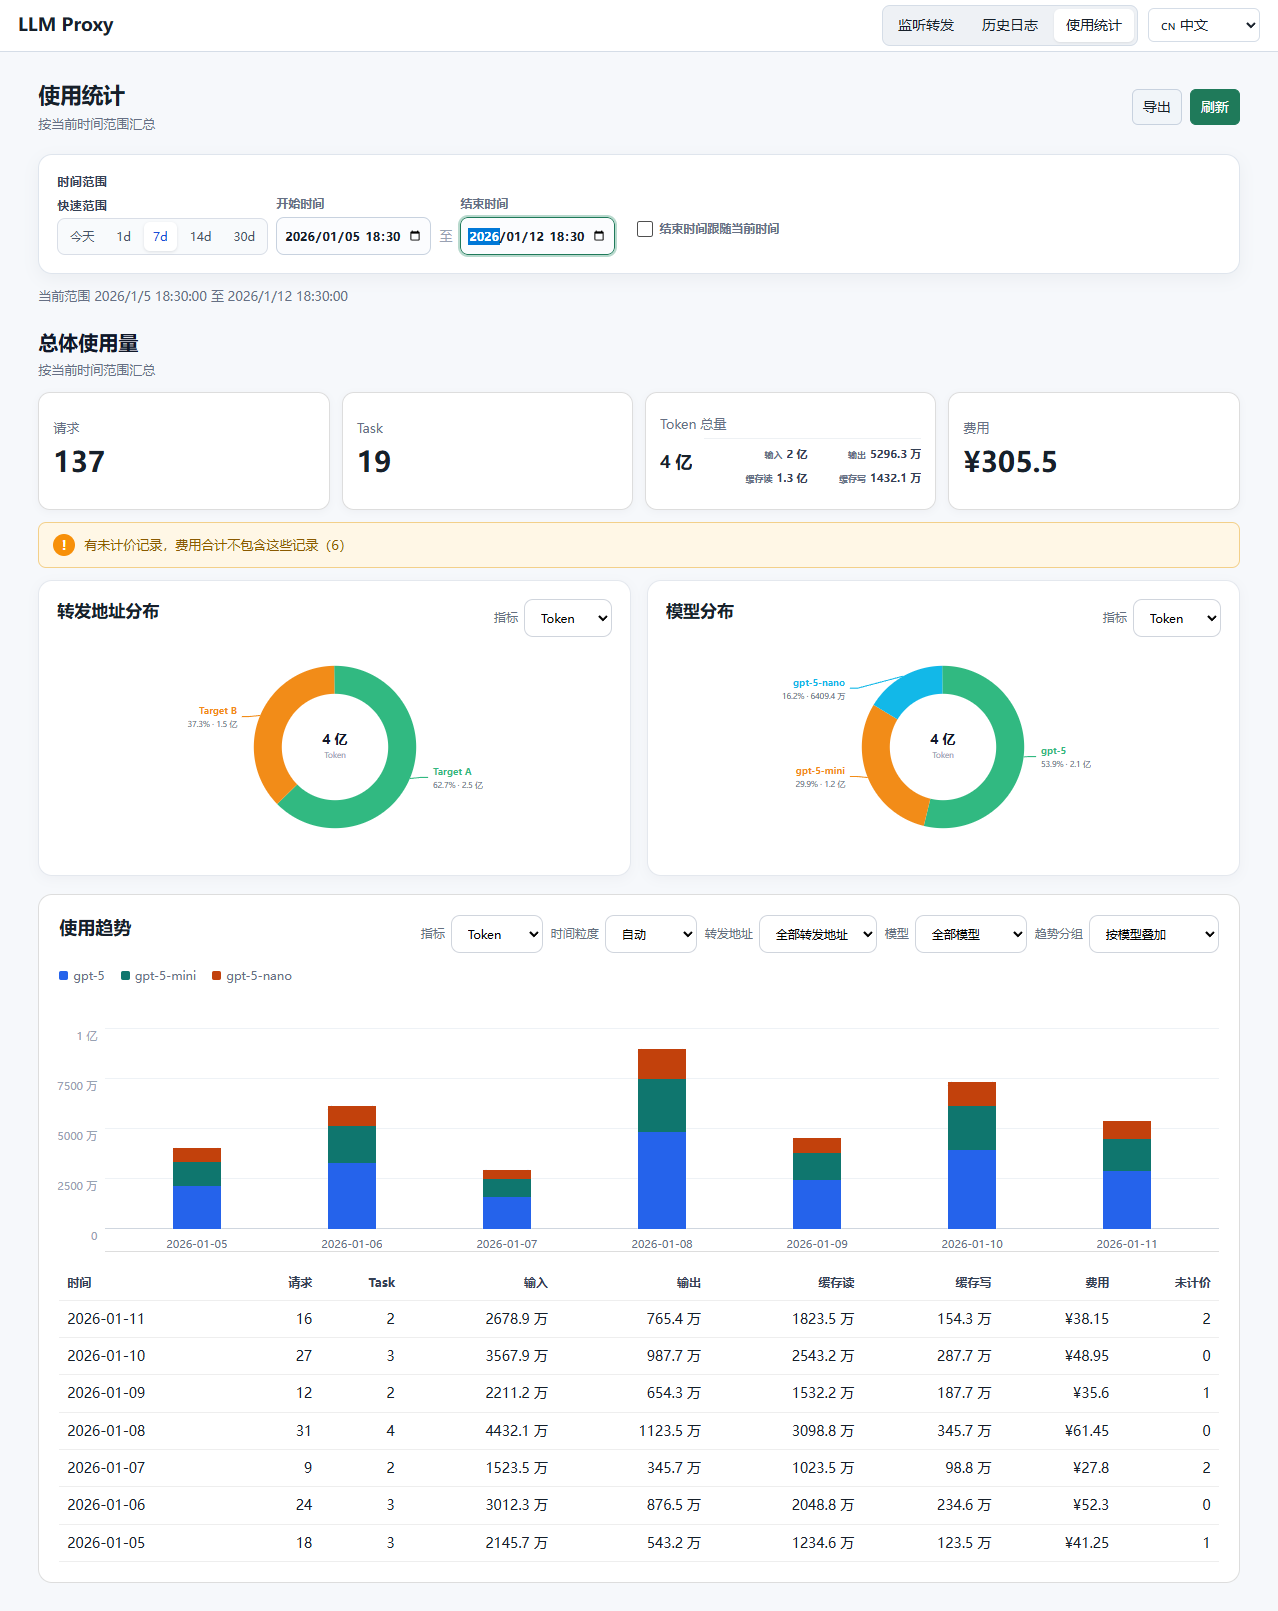
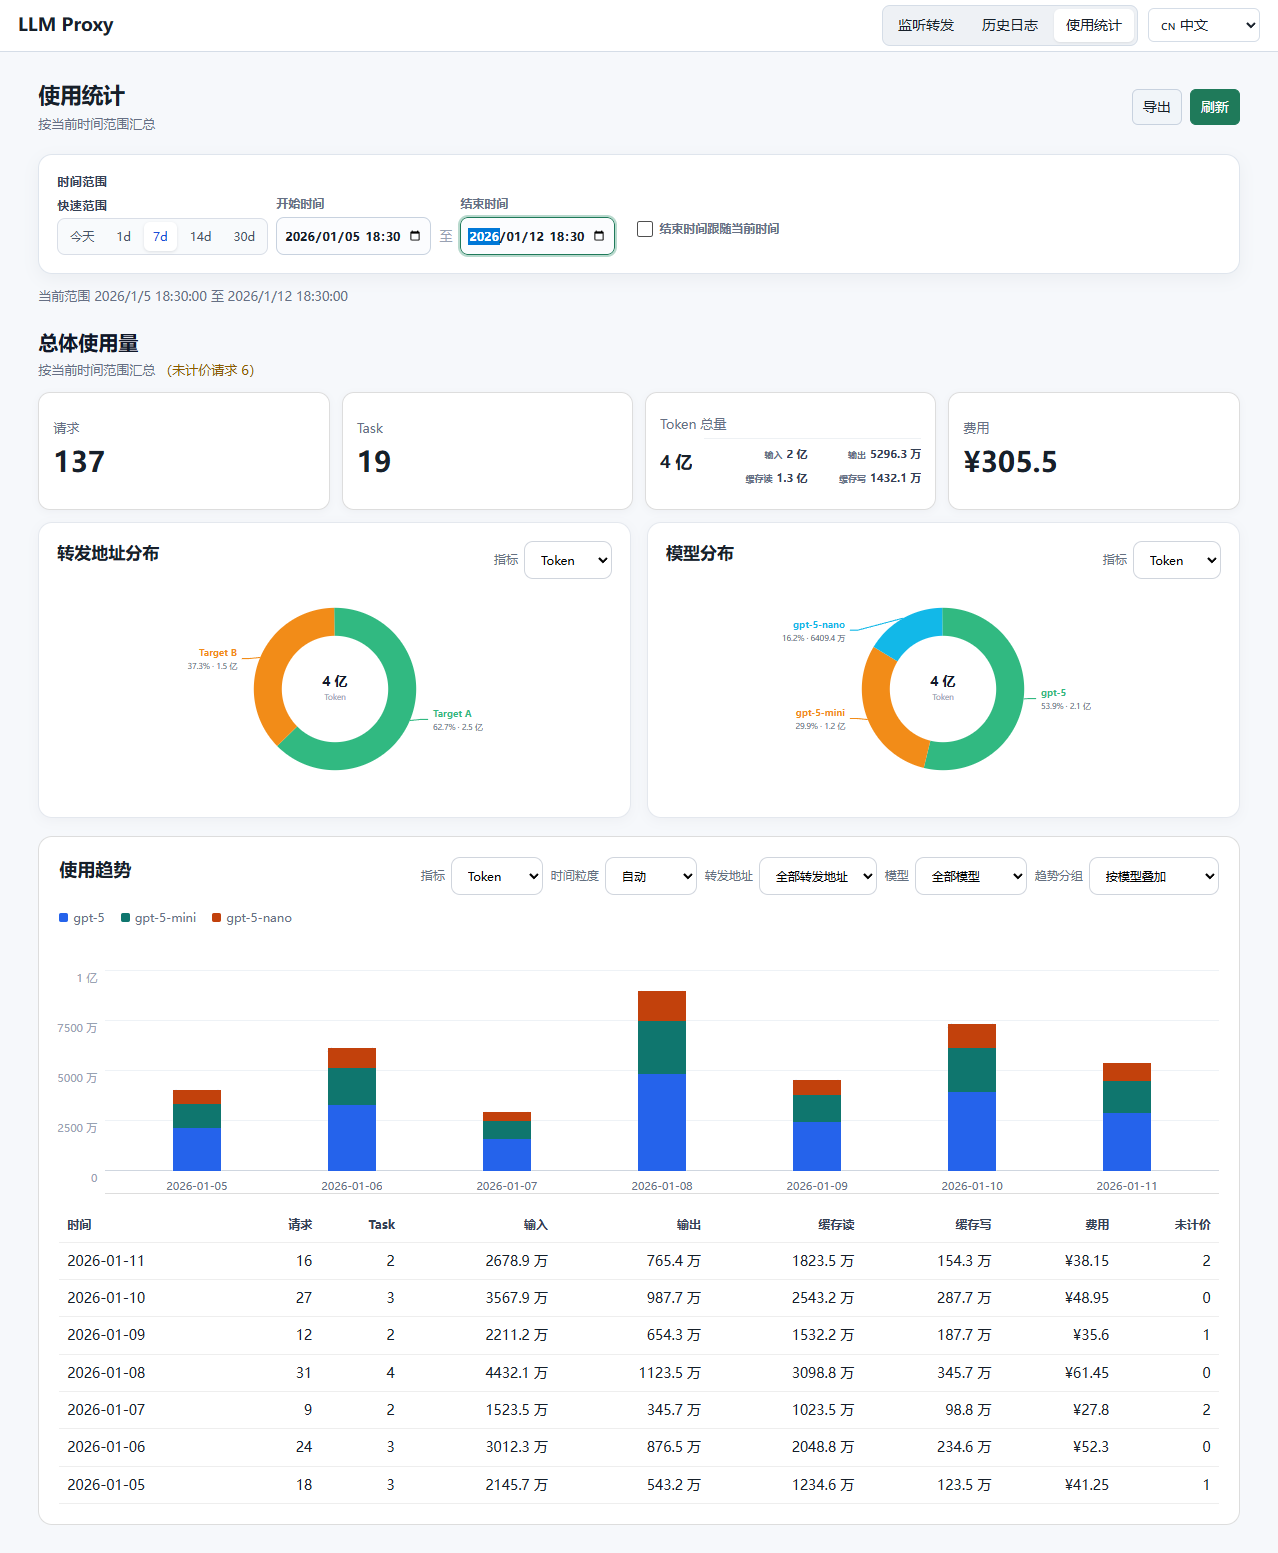
feat(ui): inline the unpriced request count in the statistics overview hint
Replace the dedicated unpriced-records warning bar under the overview
cards with an amber parenthetical note after the 'summary for the
selected period' heading (e.g. 按当前时间范围汇总（未计价请求 6）),
which no longer occupies its own row. Drop the now-unused
.stats-unpriced/.stats-alert-icon styles and re-baseline the
ui_stats_cn/en captures.

diff --git a/src/admin/static/app.js b/src/admin/static/app.js
@@ -2879,6 +2879,7 @@ async function loadStatistics() {
     $("statsGranularity")?.querySelector('option[value="month"]')?.replaceChildren("Monthly");
     $("statsGranularity")?.querySelector('option[value="auto"]')?.replaceChildren("Auto");
   }
+  $("statsUnpricedNote").textContent = "";
   $("statsOverview").innerHTML = `<div class="stats-loading">${
     state.language === "en" ? "Loading..." : "加载中…"
   }</div>`;
@@ -3098,6 +3099,12 @@ async function loadStatistics() {
         `<span><b>${statLabels[key]}</b><strong title="${fullNumber(result.totals[key] || 0)}">${compactNumber(result.totals[key] || 0)}</strong></span>`,
     )
     .join("");
+  const unpricedTotal = Object.values(result.unpriced || {}).reduce((a, b) => a + Number(b), 0);
+  $("statsUnpricedNote").textContent = unpricedTotal
+    ? `${english ? " (" : "（"}${english ? "unpriced" : "未计价请求"} ${unpricedTotal.toLocaleString(
+        english ? "en-US" : "zh-CN",
+      )}${english ? ")" : "）"}`
+    : "";
   const primaryStats = ["requests", "tasks"];
   $("statsOverview").innerHTML =
     primaryStats
@@ -3108,13 +3115,6 @@ async function loadStatistics() {
       .join("") +
     `<div class="stat-card stat-card-tokens"><small>${english ? "Token total" : "Token 总量"}</small><div class="stat-card-token-body"><strong title="${fullNumber(totalTokens)}">${tokenTotalDisplay}</strong><div class="token-details">${tokenDetailHtml}</div></div></div>` +
     `<div class="stat-card stat-card-cost" title="${escapeHtml(`${statLabels.cost}: ${statDisplay("cost", result.totals.cost)}`)}"><small>${statLabels.cost}</small><strong>${statDisplay("cost", result.totals.cost)}</strong></div>` +
-    (Object.values(result.unpriced || {}).reduce((a, b) => a + Number(b), 0)
-      ? `<div class="stats-unpriced"><span class="stats-alert-icon">!</span><span>${english ? "Unpriced records are excluded from cost totals" : "有未计价记录，费用合计不包含这些记录"}${
-          english ? " (" : "（"
-        }${Object.values(result.unpriced || {})
-          .reduce((a, b) => a + Number(b), 0)
-          .toLocaleString(english ? "en-US" : "zh-CN")}${english ? ")" : "）"}</span></div>`
-      : "") +
     `<div class="stat-groups"><section class="distribution-card"><div class="distribution-card-title"><h3>${targetTitle}</h3><label class="chart-control"><span>${english ? "Metric" : "指标"}</span><select id="statsMetricTarget" aria-label="${english ? "Target distribution metric" : "转发地址分布指标"}">${metricOptions(targetMetric)}</select></label></div>${pie(targetResult.byTarget, targetMetric)}</section><section class="distribution-card"><div class="distribution-card-title"><h3>${modelTitle}</h3><label class="chart-control"><span>${english ? "Metric" : "指标"}</span><select id="statsMetricModel" aria-label="${english ? "Model distribution metric" : "模型分布指标"}">${metricOptions(modelMetric)}</select></label></div>${pie(modelResult.byModel, modelMetric)}</section></div>`;
   const trend = await fetch(
     `/api/usage-statistics/trend?from=${encodeURIComponent(iso(from))}&to=${encodeURIComponent(to.toISOString())}&granularity=${selectedGranularity}&timezoneOffset=${timezoneOffset}&breakdown=${selectedBreakdown}${extra}`,

diff --git a/src/admin/static/app.css b/src/admin/static/app.css
@@ -456,11 +456,6 @@ body.drag-target-active {
 .token-details strong {
   font-size: 13px;
 }
-.stats-unpriced {
-  min-height: 38px;
-  padding: 7px 10px;
-  font-size: 12px;
-}
 .stat-groups {
   gap: 10px;
 }
@@ -2653,15 +2648,6 @@ label span {
   font-size: 20px;
   margin-top: 6px;
 }
-.stats-unpriced {
-  grid-column: 1 / -1;
-  padding: 10px 14px;
-  border-radius: 8px;
-  background: #fff7e6;
-  color: #8a5a00;
-  border: 1px solid #f3d08a;
-  font-size: 13px;
-}
 .stat-groups {
   grid-column: 1/-1;
   display: grid;
@@ -3036,21 +3022,16 @@ label span {
   font-style: normal;
   align-self: end;
 }
-.stats-unpriced {
+.stats-section-heading .stats-overview-hint-line {
   display: flex;
-  align-items: center;
-  gap: 9px;
-  min-height: 46px;
+  align-items: baseline;
+  gap: 4px;
 }
-.stats-alert-icon {
-  display: inline-grid;
-  width: 22px;
-  height: 22px;
-  place-items: center;
-  border-radius: 50%;
-  background: #f79009;
-  color: #fff;
-  font-weight: 800;
+.stats-section-heading .stats-overview-hint-line > span {
+  margin-top: 0;
+}
+.stats-section-heading .stats-overview-hint-line > #statsUnpricedNote {
+  color: #8a5a00;
 }
 .stat-groups {
   grid-template-columns: repeat(2, minmax(0, 1fr));

diff --git a/src/admin/static/index.html b/src/admin/static/index.html
@@ -212,7 +212,10 @@
           <div class="stats-section-heading">
             <div>
               <h2 data-i18n="statsOverviewTitle">总体使用量</h2>
-              <span data-i18n="statsOverviewHint">按当前时间范围汇总</span>
+              <span class="stats-overview-hint-line"
+                ><span data-i18n="statsOverviewHint">按当前时间范围汇总</span
+                ><span id="statsUnpricedNote"></span
+              ></span>
             </div>
           </div>
           <div id="statsOverview" class="stats-overview"></div>

diff --git a/test-node/ui/admin-ui.test.ts b/test-node/ui/admin-ui.test.ts
@@ -3198,7 +3198,7 @@ describe("statistics page visual smoke", () => {
     );
     await loadAdminPage();
     await page.locator('[data-tab="statistics"]').click();
-    await expectPage(page.locator(".stats-unpriced")).toContainText("Unpriced");
+    await expectPage(page.locator("#statsUnpricedNote")).toHaveText("(unpriced 2)");
     await expectPage(page.locator(".stat-card-unpriced")).toHaveCount(0);
   });
 

diff --git a/docs/refactoring/ui-visual-baseline.md b/docs/refactoring/ui-visual-baseline.md
@@ -14,8 +14,8 @@
[9 lines of base64/hex data omitted]
 
